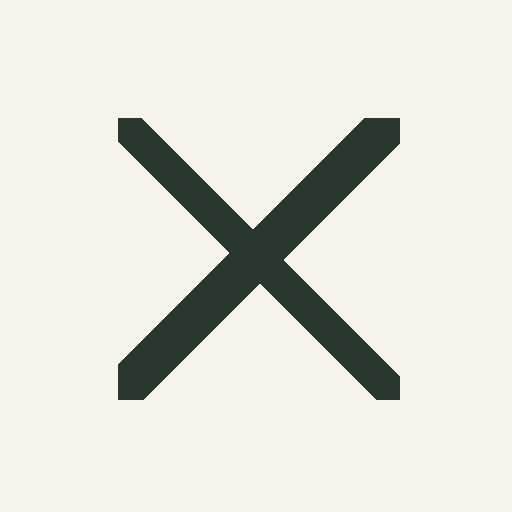
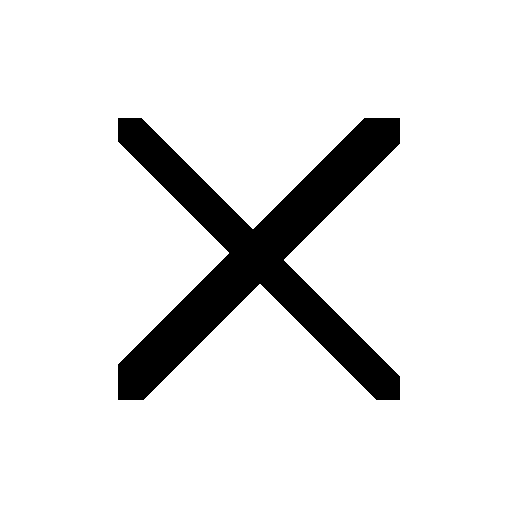
Redesign Workshop in black and white and illustrate all 20 instructions

Changed region(s): [[0.2188, 0.2188, 0.7812, 0.7812]]

diff --git a/engine/public/workshop/style.css b/engine/public/workshop/style.css
@@ -1,1 +1,1 @@
-*{box-sizing:border-box}html{background:#f6f4ed;color:#29372e;color-scheme:light}body{margin:0;font-family:system-ui,sans-serif}main{max-width:760px;margin:auto;padding:clamp(24px,6vw,60px);min-height:100dvh}header{display:flex;align-items:center;justify-content:space-between;font-size:12px;font-weight:650;letter-spacing:.3em;color:#697467;gap:12px}h1{font:400 clamp(44px,8vw,76px)/1.06 Georgia,serif;letter-spacing:-.045em;margin:40px 0 14px}h2{font:400 28px/1.2 Georgia,serif;margin:0}.intro{font-size:17px;line-height:1.65;color:#657061;margin:0 0 30px}#projects{margin-top:34px}.project{width:100%;display:flex;align-items:center;text-align:left;gap:20px;border:0;border-top:1px solid #d2d6c9;background:none;padding:23px 0;min-height:90px}.project:last-child{border-bottom:1px solid #d2d6c9}.project .info{flex:1}.name{font:400 clamp(23px,4vw,32px)/1.2 Georgia,serif;display:block}.meta,.eyebrow,.sectionhead span,small{font-size:11px;letter-spacing:.1em;color:#697467}.meta{display:block;margin-top:8px;letter-spacing:.03em}.arrow{font-size:24px;color:#697467}button{font:inherit;color:inherit;cursor:pointer;touch-action:manipulation}button:focus-visible,input:focus-visible{outline:3px solid #87947d;outline-offset:4px}.back{background:none;border:0;padding:20px 0;color:#697467;min-height:48px}.eyebrow{margin-top:8px;text-transform:uppercase}#detail h1{margin:13px 0}.diagram{background:#ebece1;padding:12px;display:grid;place-items:center;min-height:120px;margin:18px 0 34px;border-radius:4px}.diagram svg{width:100%;max-height:180px;display:block}.sectionhead{display:flex;justify-content:space-between;gap:10px;align-items:center;margin:34px 0 16px}.material,.step{display:flex;gap:14px;align-items:flex-start;padding:15px 0;border-top:1px solid #d2d6c9;cursor:pointer;font-size:16px;line-height:1.5}.material:last-child,.step:last-child{border-bottom:1px solid #d2d6c9}.material input,.step input{width:23px;height:23px;accent-color:#536b4d;margin:1px 0 0;flex-shrink:0;cursor:pointer}.material span,.step span{flex:1}.step{padding:20px 0}.step strong{font-weight:600;display:block;margin-bottom:4px}.step .instruction{display:block;color:#53604f}.step:has(input:checked) strong,.material:has(input:checked) span{color:#697467;text-decoration:line-through}.safety{font-size:13px;line-height:1.6;color:#6b5e45;margin:15px 0}.challenge{margin:34px 0 20px;padding:20px;background:#e7e9dc;border-radius:4px}.challenge p{font:400 24px/1.3 Georgia,serif;margin:8px 0 0}.complete{font-size:16px;color:#405c3b;min-height:20px}.reset{font-size:13px}#install{font:500 13px system-ui,sans-serif;background:none;border:1px solid #a5af9e;padding:10px 14px;border-radius:4px;letter-spacing:0}#installStatus{font-size:13px;color:#697467;line-height:1.5}[hidden]{display:none!important}@media(display-mode:standalone){#install,#installStatus{display:none!important}}
+*{box-sizing:border-box}html{background:#fff;color:#000;color-scheme:light}body{margin:0;font-family:Arial,Helvetica,sans-serif}main{max-width:720px;margin:auto;padding:clamp(24px,6vw,60px);min-height:100dvh}header{display:flex;align-items:center;justify-content:space-between;font-size:12px;font-weight:700;letter-spacing:.25em;gap:12px}h1{font:700 clamp(42px,8vw,68px)/1.03 Arial,Helvetica,sans-serif;letter-spacing:-.06em;margin:42px 0 16px}h2{font:700 24px/1.2 Arial,Helvetica,sans-serif;letter-spacing:-.035em;margin:0}.intro{font-size:17px;line-height:1.55;margin:0 0 30px}#projects{margin-top:36px}.project{width:100%;display:flex;align-items:center;text-align:left;gap:18px;border:0;border-top:1px solid #000;background:#fff;padding:24px 0;min-height:88px}.project:last-child{border-bottom:1px solid #000}.project .info{flex:1}.name{font-size:clamp(22px,4vw,30px);font-weight:600;letter-spacing:-.04em;display:block}.meta,.eyebrow,.sectionhead span,small{font-size:11px;letter-spacing:.09em}.meta{display:block;margin-top:8px;letter-spacing:0}.arrow{font-size:23px}button{font:inherit;color:inherit;cursor:pointer;touch-action:manipulation}button:focus-visible,input:focus-visible{outline:2px solid #000;outline-offset:4px}.back{background:#fff;border:0;padding:20px 0;min-height:48px}.eyebrow{margin-top:8px;text-transform:uppercase}#detail h1{margin:13px 0}.sectionhead{display:flex;justify-content:space-between;gap:10px;align-items:center;margin:34px 0 16px}.material,.step{display:flex;gap:14px;align-items:flex-start;padding:15px 0;border-top:1px solid #000;cursor:pointer;font-size:17px;line-height:1.5}.material:last-child,.step:last-child{border-bottom:1px solid #000}.material input,.step input{width:23px;height:23px;accent-color:#000;margin:1px 0 0;flex-shrink:0;cursor:pointer}.material span,.step>span{flex:1;min-width:0}.step{padding:24px 0}.step strong{font-size:21px;font-weight:700;display:block;margin-bottom:14px;line-height:1.3}.step-image{display:block;width:100%;height:auto;max-width:520px;background:#fff;border:1px solid #000;margin:0 0 15px}.step .instruction{display:block;line-height:1.55}.step:has(input:checked) strong,.material:has(input:checked) span{text-decoration:line-through}.safety{font-size:13px;line-height:1.6;margin:15px 0}.challenge{margin:34px 0 20px;padding:20px;border:1px solid #000;background:#fff}.challenge p{font-size:23px;font-weight:600;letter-spacing:-.025em;line-height:1.3;margin:8px 0 0}.complete{font-size:16px;min-height:20px}.reset{font-size:13px}#install{font:500 13px Arial,sans-serif;background:#fff;border:1px solid #000;padding:10px 14px;letter-spacing:0}#installStatus{font-size:13px;line-height:1.5}[hidden]{display:none!important}@media(display-mode:standalone){#install,#installStatus{display:none!important}}@media(max-width:400px){.step{gap:10px}.step strong{font-size:19px}}

diff --git a/engine/public/workshop/app.js b/engine/public/workshop/app.js
@@ -6,9 +6,8 @@ function state(p){const s=load()[p.id];return {materials:Array.from({length:p.ma
 function change(kind,i,v){const all=load(),s=state(active);s[kind][i]=v;all[active.id]=s;save(all);counts()}
 function make(tag,cls,text){const e=document.createElement(tag);if(cls)e.className=cls;if(text!==undefined)e.textContent=text;return e}
 function renderList(){const root=$("projects");root.replaceChildren();for(const p of projects){const s=state(p),n=s.steps.filter(Boolean).length,b=make("button","project"),info=make("span","info");b.type="button";info.append(make("span","name",p.title),make("span","meta",n===p.steps.length?"Complete":n? n+" / "+p.steps.length+" steps · "+p.category:p.category+" · "+p.duration));b.append(info,make("span","arrow",n===p.steps.length?"✓":"→"));b.onclick=()=>open(p,true);root.append(b)}}
-const diagrams={boat:'<path d="M25 93H255M35 106H245M50 75h180l-24 25H74Z" fill="#c2c9b2"/><path d="M50 75h180l-24 25H74ZM25 106h230" fill="none"/><circle cx="120" cy="68" r="9" fill="#bba46d"/><circle cx="148" cy="68" r="9" fill="#bba46d"/><circle cx="176" cy="68" r="9" fill="#bba46d"/>',bridge:'<path d="M22 102h58v22H22ZM200 102h58v22h-58Z" fill="#bac4af"/><path d="M65 97l20-17 20 17 20-17 20 17 20-17 20 17 20-17 15 17M80 102h120" fill="none"/><circle cx="145" cy="69" r="10" fill="#bba46d"/>',garden:'<path d="M98 67h84l-10 58h-64Z" fill="#dce2d2"/><path d="M140 102V44m0 48-12 17m12-12 12 15M140 61q-28-24-35-8 13 19 35 8Zm0-10q25-22 33-9-12 19-33 9Z" fill="#aebc9e"/><path d="M98 67h84" fill="none"/>',sundial:'<ellipse cx="140" cy="105" rx="100" ry="25" fill="#d8decc"/><path d="M140 105V38m0 67 68 10m-68-10-54 10m54-10 22-20" fill="none"/><circle cx="222" cy="32" r="15" fill="#d4bc78"/><path d="M222 10V2m0 60v-8m22-22h8m-60 0h8" fill="none"/>',wind:'<path d="M90 132V28" fill="none"/><path d="M90 30q27-16 52 0t62 0v36q-32 12-62 0t-52 0Z" fill="#b4c3a7"/><path d="M216 94h-84m14-10-14 10 14 10" fill="none"/>'};
 function counts(){if(!active)return;const s=state(active),m=s.materials.filter(Boolean).length,n=s.steps.filter(Boolean).length;$("materialCount").textContent=m+" / "+s.materials.length;$("stepCount").textContent=n+" / "+s.steps.length;$("complete").textContent=n===s.steps.length?"Project complete.":"";$("reset").hidden=!m&&!n}
-function open(p,push){active=p;$("library").hidden=true;$("detail").hidden=false;$("title").textContent=p.title;$("meta").textContent=p.category+" / "+p.duration;$("intro").textContent=p.intro;$("safety").textContent=p.safety;$("challenge").textContent=p.challenge;$("diagram").innerHTML='<svg viewBox="0 0 280 145" aria-hidden="true" xmlns="http://www.w3.org/2000/svg" stroke="#62765b" stroke-width="2.5" stroke-linecap="round" stroke-linejoin="round">'+(diagrams[p.diagram]||"")+'</svg>';const s=state(p);for(const kind of ["materials","steps"]){const root=$(kind);root.replaceChildren();p[kind].forEach((item,i)=>{const label=make("label",kind==="steps"?"step":"material"),check=make("input");check.type="checkbox";check.checked=s[kind][i];check.onchange=()=>change(kind,i,check.checked);const text=make("span");if(kind==="steps"){text.append(make("strong","",String(i+1)+". "+item.title),make("span","instruction",item.text))}else text.textContent=item;label.append(check,text);root.append(label)})}counts();window.scrollTo(0,0);if(push&&location.hash!=="#"+p.id)history.pushState(null,"","#"+p.id)}
+function open(p,push){active=p;$("library").hidden=true;$("detail").hidden=false;$("title").textContent=p.title;$("meta").textContent=p.category+" / "+p.duration;$("intro").textContent=p.intro;$("safety").textContent=p.safety;$("challenge").textContent=p.challenge;const s=state(p);for(const kind of ["materials","steps"]){const root=$(kind);root.replaceChildren();p[kind].forEach((item,i)=>{const label=make("label",kind==="steps"?"step":"material"),check=make("input");check.type="checkbox";check.checked=s[kind][i];check.onchange=()=>change(kind,i,check.checked);const text=make("span");if(kind==="steps"){const img=make("img","step-image");img.src="./"+item.image;img.alt=item.title+" — instructional diagram";img.width=320;img.height=180;text.append(make("strong","",String(i+1)+". "+item.title),img,make("span","instruction",item.text))}else text.textContent=item;label.append(check,text);root.append(label)})}counts();window.scrollTo(0,0);if(push&&location.hash!=="#"+p.id)history.pushState(null,"","#"+p.id)}
 function home(){active=null;$("detail").hidden=true;$("library").hidden=false;renderList();window.scrollTo(0,0)}
 function route(){const p=projects.find(x=>"#"+x.id===location.hash);if(p)open(p,false);else home()}
 $("back").onclick=()=>{history.replaceState(null,"",location.pathname+location.search);home()};$("reset").onclick=()=>{if(!active||!confirm("Clear this project's progress?"))return;const all=load();delete all[active.id];save(all);open(active,false)};window.addEventListener("popstate",route);fetch("./projects.json").then(r=>{if(!r.ok)throw Error();return r.json()}).then(data=>{projects=data;route()}).catch(()=>{$("projects").textContent="Projects unavailable. Reopen when connected."});if("serviceWorker"in navigator)navigator.serviceWorker.register("./sw.js").catch(()=>{});})();

diff --git a/engine/public/workshop/index.html b/engine/public/workshop/index.html
@@ -1,1 +1,1 @@
-<!doctype html><html lang="en"><head><meta charset="utf-8"><meta name="viewport" content="width=device-width,initial-scale=1,viewport-fit=cover"><meta name="theme-color" content="#f6f4ed"><meta name="description" content="PARC practical projects"><link rel="manifest" href="/Forum-OS/workshop/manifest.webmanifest"><link rel="icon" href="./icon.svg"><link rel="stylesheet" href="./style.css"><title>Workshop</title></head><body><main><header><span>PARC</span><button id="install" hidden>Install Workshop</button></header><p id="installStatus" role="status" hidden></p><section id="library"><h1>Workshop</h1><p class="intro">Choose something to make.</p><div id="projects" aria-live="polite">Loading projects…</div></section><section id="detail" hidden><button id="back" class="back">← Workshop</button><div class="eyebrow" id="meta"></div><h1 id="title"></h1><p id="intro" class="intro"></p><div id="diagram" class="diagram"></div><div class="sectionhead"><h2>Materials</h2><span id="materialCount"></span></div><div id="materials"></div><p id="safety" class="safety"></p><div class="sectionhead"><h2>Instructions</h2><span id="stepCount"></span></div><div id="steps"></div><div class="challenge"><small>THINK ABOUT IT</small><p id="challenge"></p></div><p id="complete" role="status" class="complete"></p><button id="reset" class="back reset">Start again</button></section></main><script src="./install.js" defer></script><script src="./app.js" defer></script></body></html>
+<!doctype html><html lang="en"><head><meta charset="utf-8"><meta name="viewport" content="width=device-width,initial-scale=1,viewport-fit=cover"><meta name="theme-color" content="#ffffff"><meta name="description" content="PARC practical projects"><link rel="manifest" href="/Forum-OS/workshop/manifest.webmanifest"><link rel="icon" href="./icon.svg"><link rel="stylesheet" href="./style.css?v=2"><title>Workshop</title></head><body><main><header><span>PARC</span><button id="install" hidden>Install Workshop</button></header><p id="installStatus" role="status" hidden></p><section id="library"><h1>Workshop</h1><p class="intro">Choose something to make.</p><div id="projects" aria-live="polite">Loading projects…</div></section><section id="detail" hidden><button id="back" class="back">← Workshop</button><div class="eyebrow" id="meta"></div><h1 id="title"></h1><p id="intro" class="intro"></p><div class="sectionhead"><h2>Materials</h2><span id="materialCount"></span></div><div id="materials"></div><p id="safety" class="safety"></p><div class="sectionhead"><h2>Instructions</h2><span id="stepCount"></span></div><div id="steps"></div><div class="challenge"><small>THINK ABOUT IT</small><p id="challenge"></p></div><p id="complete" role="status" class="complete"></p><button id="reset" class="back reset">Start again</button></section></main><script src="./install.js" defer></script><script src="./app.js?v=2" defer></script></body></html>

diff --git a/engine/public/workshop/sw.js b/engine/public/workshop/sw.js
@@ -1,1 +1,1 @@
-const CACHE="parc-workshop-v1",base=new URL("./",self.location.href),shell=["index.html","style.css","app.js","install.js","projects.json","manifest.webmanifest","icon.svg","icon-192.png","icon-512.png"].map(x=>new URL(x,base).href);self.addEventListener("install",e=>e.waitUntil(caches.open(CACHE).then(c=>c.addAll(shell)).then(()=>self.skipWaiting())));self.addEventListener("activate",e=>e.waitUntil(caches.keys().then(keys=>Promise.all(keys.filter(k=>k.startsWith("parc-workshop-")&&k!==CACHE).map(k=>caches.delete(k)))).then(()=>self.clients.claim())));self.addEventListener("fetch",e=>{if(e.request.method!=="GET"||!e.request.url.startsWith(base.href))return;e.respondWith(fetch(e.request).then(r=>{if(r.ok&&shell.includes(e.request.url)){const copy=r.clone();e.waitUntil(caches.open(CACHE).then(c=>c.put(e.request,copy)))}return r}).catch(()=>caches.match(e.request).then(r=>r||(e.request.mode==="navigate"?caches.match(shell[0]):Response.error()))))});
+const CACHE="parc-workshop-v2",base=new URL("./",self.location.href),shell=["index.html","style.css","app.js","install.js","projects.json","manifest.webmanifest","icon.svg","icon-192.png","icon-512.png","images/boat-1.svg","images/boat-2.svg","images/boat-3.svg","images/boat-4.svg","images/bridge-1.svg","images/bridge-2.svg","images/bridge-3.svg","images/bridge-4.svg","images/garden-1.svg","images/garden-2.svg","images/garden-3.svg","images/garden-4.svg","images/sundial-1.svg","images/sundial-2.svg","images/sundial-3.svg","images/sundial-4.svg","images/wind-1.svg","images/wind-2.svg","images/wind-3.svg","images/wind-4.svg","style.css?v=2","app.js?v=2"].map(x=>new URL(x,base).href);self.addEventListener("install",e=>e.waitUntil(caches.open(CACHE).then(c=>c.addAll(shell)).then(()=>self.skipWaiting())));self.addEventListener("activate",e=>e.waitUntil(caches.keys().then(keys=>Promise.all(keys.filter(k=>k.startsWith("parc-workshop-")&&k!==CACHE).map(k=>caches.delete(k)))).then(()=>self.clients.claim())));self.addEventListener("fetch",e=>{if(e.request.method!=="GET"||!e.request.url.startsWith(base.href))return;e.respondWith(fetch(e.request).then(r=>{if(r.ok&&shell.includes(e.request.url)){const copy=r.clone();e.waitUntil(caches.open(CACHE).then(c=>c.put(e.request,copy)))}return r}).catch(()=>caches.match(e.request).then(r=>r||(e.request.mode==="navigate"?caches.match(shell[0]):Response.error()))))});
